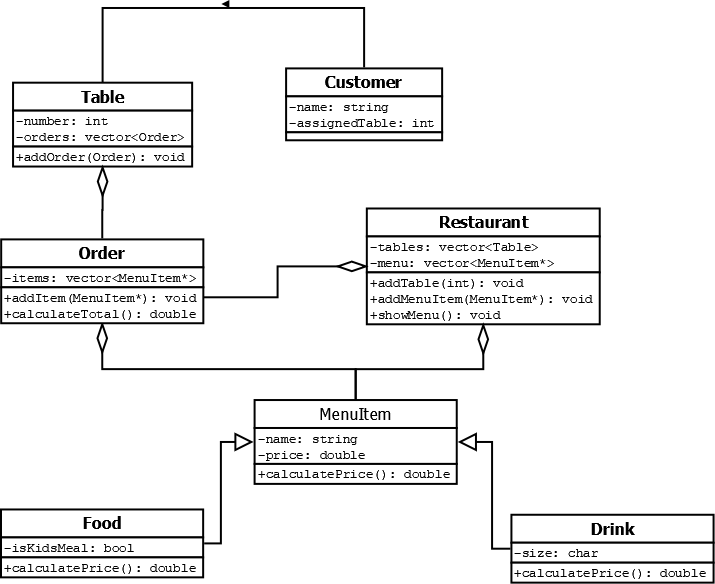
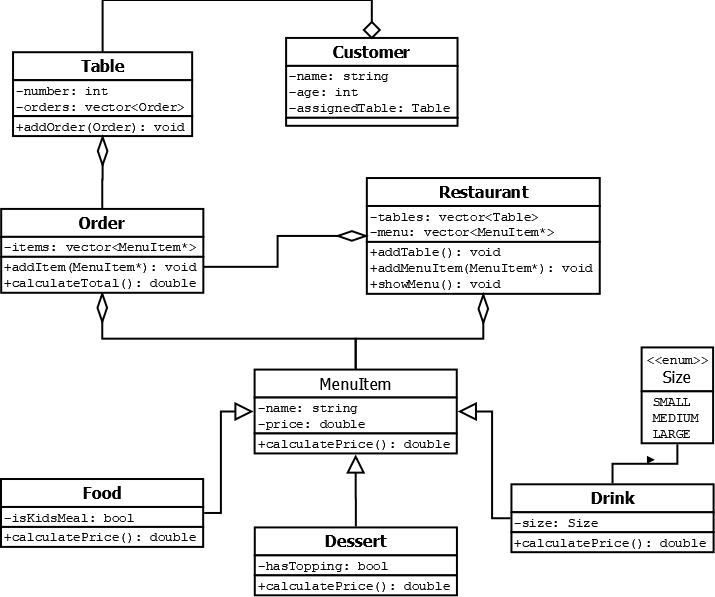
add default menu

diff --git a/classes/Restaurant.h b/classes/Restaurant.h
@@ -4,18 +4,34 @@
 #include <vector>
 #include "MenuItem.h"
 #include "Table.h"
+#include "Dessert.h"
+#include "Drink.h"
+#include "Food.h"
 
 class Restaurant
 {
 private:
     vector<MenuItem *> menu;
-    vector<Table> tables;
+    vector<Table *> tables;
+    int numTables; // Tables available in the restaurant
 
 public:
-    Restaurant() {}
-    Restaurant(vector<MenuItem *> menu, vector<Table> tables) : menu(menu), tables(tables) {}
+    Restaurant(int numTables = 10)
+    {
+        // Default menu
+        menu.push_back(new Food("Torta", 30));
+        menu.push_back(new Food("Taco", 15));
+        menu.push_back(new Food("Nuggets", 65));
+        menu.push_back(new Drink("Coca", 10));
+        menu.push_back(new Drink("Horchata", 15));
+        menu.push_back(new Drink("Jamaica", 15));
+        menu.push_back(new Dessert("Cheesecake", 30));
+        menu.push_back(new Dessert("Brownie", 20));
+    }
 
-    void addTable(int number);
+    Restaurant(vector<MenuItem *> menu, vector<Table *> tables, int nTables = 10) : menu(menu), tables(tables), numTables(nTables) {}
+
+    void addTable();
     void addMenuItem(MenuItem *item);
     void showMenu();
 };
@@ -26,11 +42,22 @@ public:
  * @param number The number of the table to add.
  *
  * This function adds a table to the restaurant's list of tables.
- * It is used to keep track of all the tables in the restaurant.
+ * If there are available tables,
+ * it adds a table with the given number to the list.
+ * If there are no available tables, it prints a message saying so.
  */
-void Restaurant::addTable(int number)
+void Restaurant::addTable()
 {
-    tables.push_back(Table(number));
+    int nTable = tables.size();
+    Table *t = new Table(nTable);
+
+    if (nTable + 1 < numTables && nTable < numTables)
+    {
+        tables.push_back(t);
+        return;
+    }
+
+    cout << "Ya no hay más mesas disponibles" << endl;
 }
 
 /**

diff --git a/classes/Dessert.h b/classes/Dessert.h
@@ -1,0 +1,45 @@
+#ifndef DESSERT_h
+#define DESSERT_h
+
+#include "MenuItem.h"
+
+class Dessert : public MenuItem
+{
+private:
+    bool hasTopping;
+
+public:
+    Dessert(string name, double price, bool hasT = false) : MenuItem(name, price), hasTopping(hasT) {}
+
+    double calculatePrice() override;
+    void setTopping(bool hasTopping);
+};
+
+/**
+ * @brief Calculates the price of the dessert, adding 10 extra cost if it has a topping.
+ *
+ * @return The calculated price of the dessert.
+ */
+double Dessert::calculatePrice()
+{
+    if (hasTopping)
+    {
+        return price + 10;
+    }
+    return price;
+}
+
+/**
+ * @brief Sets whether the dessert has a topping or not.
+ *
+ * @param hasTopping Whether the dessert has a topping or not.
+ *
+ * This function sets whether the dessert has a topping or not.
+ * If the dessert has a topping, its price will be increased by 10 extra cost.
+ */
+void Dessert::setTopping(bool hasTopping)
+{
+    this->hasTopping = hasTopping;
+}
+
+#endif

diff --git a/classes/Drink.h b/classes/Drink.h
@@ -9,9 +9,10 @@ private:
     Size size;
 
 public:
-    Drink(string name, double price, Size size) : MenuItem(name, price), size(size) {}
+    Drink(string name, double price, Size size = SMALL) : MenuItem(name, price), size(size) {}
 
     double calculatePrice() override;
+    void setSize(Size size);
 };
 
 /**
@@ -38,6 +39,20 @@ double Drink::calculatePrice()
         break;
     }
     return 0;
+}
+
+/**
+ * @brief Sets the size of the drink item.
+ *
+ * @param size The new size of the drink item.
+ *
+ * This function sets the size of the drink item to the specified value.
+ * The size is used to calculate the price of the drink item.
+ * See `calculatePrice()` for more information on how the price is calculated based on the size.
+ */
+void Drink::setSize(Size size)
+{
+    this->size = size;
 }
 
 #endif

diff --git a/classes/Food.h b/classes/Food.h
@@ -9,9 +9,10 @@ private:
     bool isKidsMeal;
 
 public:
-    Food(string name, double price, bool isKM) : MenuItem(name, price), isKidsMeal(isKM) {}
+    Food(string name, double price, bool isKM = false) : MenuItem(name, price), isKidsMeal(isKM) {}
 
     double calculatePrice() override;
+    void setKidsMeal(bool isKM);
 };
 
 /**
@@ -25,6 +26,17 @@ double Food::calculatePrice()
         return price * 0.8;
     }
     return price;
+}
+
+/**
+ * @brief Sets whether the food item is a kids' meal or not.
+ *
+ * If the food item is a kids' meal, its price will be discounted by 20%.
+ * @param isKM Whether the food item is a kids' meal or not.
+ **/
+void Food::setKidsMeal(bool isKM)
+{
+    isKidsMeal = isKM;
 }
 
 #endif

diff --git a/classes/Customer.h b/classes/Customer.h
@@ -2,14 +2,16 @@
 #define CUSTOMER_h
 
 #include <string>
+#include "Table.h"
 class Customer
 {
 private:
     string name;
-    int assignedTable;
+    int age;
+    Table assignedTable;
 
 public:
-    Customer(string name, int table) : name(name), assignedTable(table) {}
+    Customer(string name, int age, Table table) : name(name), age(age), assignedTable(table) {}
 };
 
 #endif

diff --git a/classes/MenuItem.h b/classes/MenuItem.h
@@ -20,7 +20,7 @@ public:
 
 ostream &operator<<(ostream &out, MenuItem *item)
 {
-    out << "(" << item->getName() << ") - $" << item->calculatePrice() << endl;
+    out << item->getName() << " - $" << round(item->calculatePrice()) << endl;
     return out;
 }
 

diff --git a/main.cpp b/main.cpp
@@ -12,12 +12,7 @@ using namespace std;
 
 int main()
 {
-    MenuItem *d = new Drink("Coca", 10, MEDIUM);
-    MenuItem *f = new Food("Nuggets", 80, true);
-
     Restaurant r;
-    r.addMenuItem(d);
-    r.addMenuItem(f);
 
     r.showMenu();
     return 0;

diff --git a/classes/Order.h b/classes/Order.h
@@ -2,6 +2,7 @@
 #define ORDER_h
 
 #include <vector>
+#include "MenuItem.h"
 
 class Order
 {
@@ -21,7 +22,6 @@ public:
  *
  * @param item The item to add.
  */
-
 void Order::addItem(MenuItem *item)
 {
     items.push_back(item);

diff --git a/README.md b/README.md
@@ -31,7 +31,7 @@ El sistema modela un restaurante con:
 ### ✔ **Artículo (clase base)**
 Clase abstracta para cualquier ítem del menú.
 
-### ✔ **Alimento y Bebida (heredan de Articulo)**
+### ✔ **Alimento, Bebida y Postre (heredan de Articulo)**
 Cada uno modifica el cálculo del precio mediante polimorfismo.
 
 ### ✔ **Pedido**
